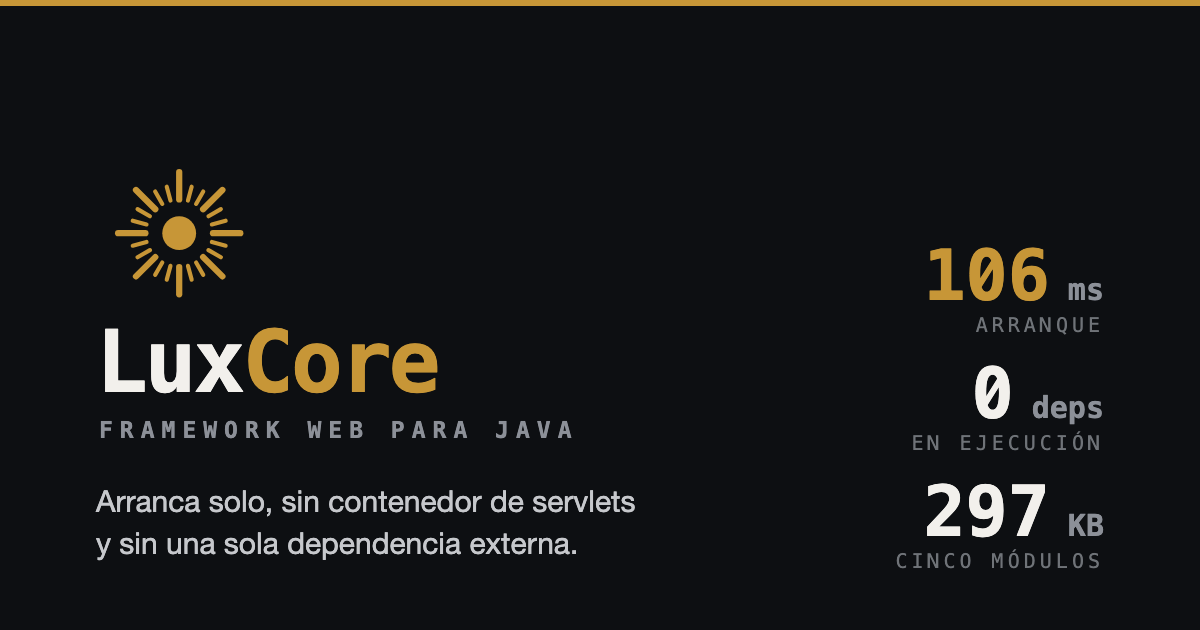
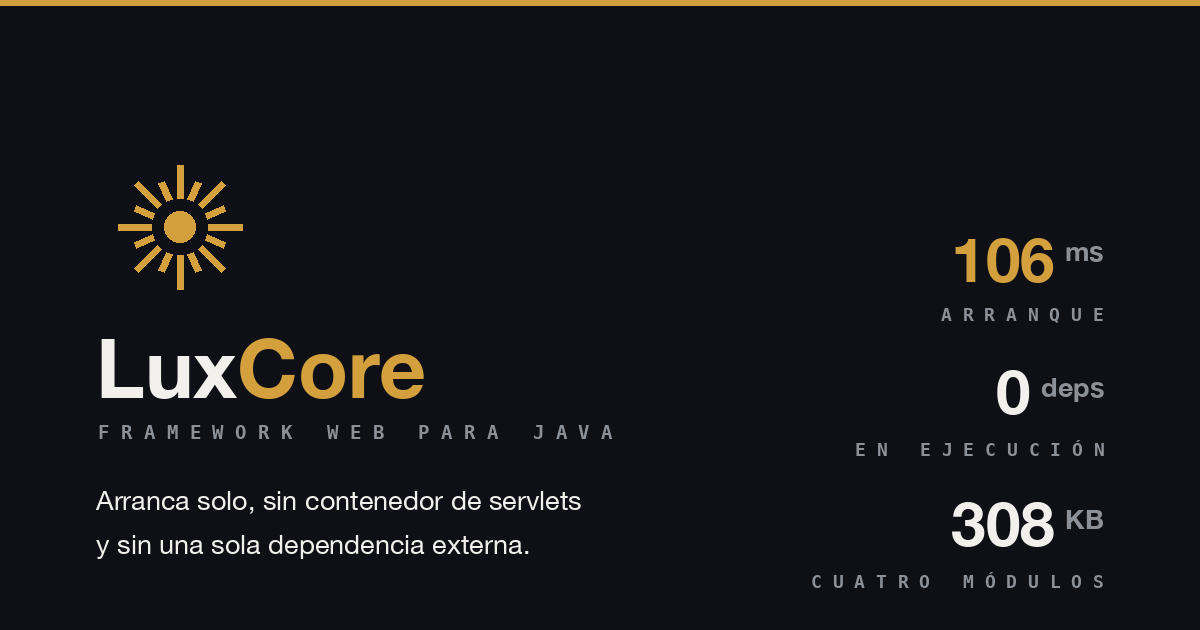
docs: las cifras de tamaño estaban viejas — 297 KB era de antes de esta semana
El núcleo creció con WebSocket, Range, recarga de TLS, caché, eventos, perfiles
y OpenAPI, y nadie volvió a medirlo. Medido ahora, jar a jar:

  lux-http 88 · lux-core 147 · lux-view 38 · lux-data 36  =  308 KB
  con lux-adapter-servlet                                 =  321 KB

Se corrigen los acumulados de la página de descargas, que estaban todos por
debajo, y la portada, que además decía "cinco módulos" donde el núcleo son
cuatro — el quinto es el adaptador de Tomcat, que es la puerta de salida, no
parte del núcleo.

La imagen de marca sale ahora de docs/imagenes/marca.py, y escribe las dos
copias —portada del README y tarjeta social— de una sola pasada: eran el mismo
dibujo mantenido a mano en dos sitios. Y a-plantillas.py copia también
social.png, que era otra copia suelta más.

Sin tocar la auditoría del 1 de agosto: ahí 297 KB era el número correcto ese
día, y un documento fechado no se reescribe.

diff --git a/docs/web/completo.html b/docs/web/completo.html
@@ -739,7 +739,7 @@ td.huella { color: var(--tenue); font-size: .75rem; }
       <p class="subtitular">Framework web para Java</p>
       <p class="promesa">
         Arranca solo, sin contenedor de servlets y sin una sola dependencia externa.
-        297 KB en cinco módulos que se toman por separado.
+        308 KB en cuatro módulos que se toman por separado.
       </p>
 
       <div class="botones">
@@ -748,7 +748,7 @@ td.huella { color: var(--tenue); font-size: .75rem; }
       </div>
 
       <div class="chips">
-        <div class="chip"><b>297</b><span>KB</span><em>Cinco módulos</em></div>
+        <div class="chip"><b>308</b><span>KB</span><em>Cuatro módulos</em></div>
         <div class="chip"><b>0</b><span>deps</span><em>En ejecución</em></div>
         <div class="chip"><b>143</b><span>cls</span><em>De producción</em></div>
         <div class="chip"><b>106</b><span>ms</span><em>Arranque</em></div>
@@ -881,7 +881,7 @@ Lux.app()
             <thead><tr><th>Métrica</th><th class="cifra">JxMVC sobre Tomcat</th><th class="cifra">LuxCore</th><th class="cifra">Diferencia</th></tr></thead>
             <tbody>
               <tr><td>Arranque</td><td class="cifra">698 ms</td><td class="cifra">106 ms</td><td class="cifra">6,6×</td></tr>
-              <tr><td>Desplegado</td><td class="cifra">253 KB + ~15 MB</td><td class="cifra">297 KB</td><td class="cifra">51×</td></tr>
+              <tr><td>Desplegado</td><td class="cifra">253 KB + ~15 MB</td><td class="cifra">308 KB</td><td class="cifra">51×</td></tr>
               <tr><td>Imagen de contenedor</td><td class="cifra">274 MB</td><td class="cifra">110 MB</td><td class="cifra">2,5×</td></tr>
               <tr><td>Dependencias en ejecución</td><td class="cifra">Jakarta EE 10</td><td class="cifra">ninguna</td><td class="cifra">—</td></tr>
               <tr><td>Pruebas</td><td class="cifra">347</td><td class="cifra">1 249</td><td class="cifra">2,7×</td></tr>
@@ -1111,28 +1111,28 @@ Lux.app()
         <div class="ficha">
           <div class="campo">
             <div class="etiqueta">Solo HTTP</div>
-            <div><span class="mono">lux-http</span> · <b>77 KB</b><br>
+            <div><span class="mono">lux-http</span> · <b>88 KB</b><br>
               Un servidor con handlers a mano, sin rutas ni inyección. Para un webhook, un
               healthcheck o un proxy pequeño.</div>
           </div>
           <div class="campo">
             <div class="etiqueta">Una API JSON</div>
-            <div><span class="mono">lux-core</span> · <b>224 KB</b><br>
+            <div><span class="mono">lux-core</span> · <b>235 KB</b><br>
               Rutas, inyección, validación, seguridad y métricas. Lo habitual para un servicio.</div>
           </div>
           <div class="campo">
             <div class="etiqueta">Una web con HTML</div>
-            <div><span class="mono">+ lux-view</span> · <b>262 KB</b><br>
+            <div><span class="mono">+ lux-view</span> · <b>273 KB</b><br>
               Añade plantillas con herencia y escapado por defecto.</div>
           </div>
           <div class="campo">
             <div class="etiqueta">Con base de datos</div>
-            <div><span class="mono">+ lux-data</span> · <b>297 KB</b><br>
+            <div><span class="mono">+ lux-data</span> · <b>308 KB</b><br>
               JDBC, pool, transacciones y repositorios. Más el driver de tu motor.</div>
           </div>
           <div class="campo">
             <div class="etiqueta">Migrando desde Tomcat</div>
-            <div><span class="mono">+ lux-adapter-servlet</span> · <b>310 KB</b><br>
+            <div><span class="mono">+ lux-adapter-servlet</span> · <b>321 KB</b><br>
               Despliega la misma aplicación dentro de Tomcat mientras haces el cambio, y vuelve
               atrás si hace falta.</div>
           </div>
@@ -2110,7 +2110,7 @@ Datos datos = config.bind(Datos.class, <span class="st">"db"</span>);</pre>
             <thead><tr><th>Métrica</th><th class="cifra">JxMVC sobre Tomcat</th><th class="cifra">LuxCore</th></tr></thead>
             <tbody>
               <tr><td>Arranque</td><td class="cifra">698 ms</td><td class="cifra">106 ms</td></tr>
-              <tr><td>Artefacto</td><td class="cifra">253 KB + ~15 MB</td><td class="cifra">297 KB</td></tr>
+              <tr><td>Artefacto</td><td class="cifra">253 KB + ~15 MB</td><td class="cifra">308 KB</td></tr>
               <tr><td>Necesita contenedor</td><td class="cifra">Tomcat 10.1+</td><td class="cifra">no</td></tr>
               <tr><td>Dependencias en runtime</td><td class="cifra">Jakarta EE 10</td><td class="cifra">ninguna</td></tr>
               <tr><td>Líneas de producción</td><td class="cifra">10 379</td><td class="cifra">12 784</td></tr>
@@ -2391,8 +2391,8 @@ document.addEventListener('DOMContentLoaded', function () {
       { t: 'blank' },
       { t: 'out', v: '[INFO] BUILD SUCCESS', cls: 'ok' },
       { t: 'contar', hasta: 1249, dur: 900,
-        plantilla: es ? '        {n} pruebas · 0 fallos · 0 dependencias · 297 KB'
-                      : '        {n} tests · 0 failures · 0 dependencies · 297 KB', cls: 'ok' },
+        plantilla: es ? '        {n} pruebas · 0 fallos · 0 dependencias · 308 KB'
+                      : '        {n} tests · 0 failures · 0 dependencies · 308 KB', cls: 'ok' },
       { t: 'blank' },
 
       { t: 'cm', v: es ? '# 3 — levantar la aplicación de ejemplo' : '# 3 — start the example app', paso: 2 },

diff --git a/docs/web/descargas.html b/docs/web/descargas.html
@@ -14,14 +14,14 @@
 <meta property="og:image" content="https://luxcore.ginit.dev/estaticos/social.png">
 <meta property="og:image:width" content="1200">
 <meta property="og:image:height" content="630">
-<meta property="og:image:alt" content="LuxCore — framework web para Java. 106 ms de arranque, 0 dependencias, 297 KB.">
+<meta property="og:image:alt" content="LuxCore — framework web para Java. 106 ms de arranque, 0 dependencias, 308 KB.">
 <meta property="og:locale" content="es_ES">
 <meta name="twitter:card" content="summary_large_image">
 <meta name="twitter:title" content="LuxCore — Descargas">
 <meta name="twitter:description" content="Los cinco módulos con su tamaño, huella y coordenadas de Maven.">
 <meta name="twitter:image" content="https://luxcore.ginit.dev/estaticos/social.png">
-<link rel="stylesheet" href="./assets/lux.css?v=53b2f94e">
-<script src="./assets/lux.js?v=53b2f94e"></script>
+<link rel="stylesheet" href="./assets/lux.css?v=50dab440">
+<script src="./assets/lux.js?v=50dab440"></script>
 </head>
 <body>
 
@@ -211,28 +211,28 @@
         <div class="ficha">
           <div class="campo">
             <div class="etiqueta">Solo HTTP</div>
-            <div><span class="mono">lux-http</span> · <b>77 KB</b><br>
+            <div><span class="mono">lux-http</span> · <b>88 KB</b><br>
               Un servidor con handlers a mano, sin rutas ni inyección. Para un webhook, un
               healthcheck o un proxy pequeño.</div>
           </div>
           <div class="campo">
             <div class="etiqueta">Una API JSON</div>
-            <div><span class="mono">lux-core</span> · <b>224 KB</b><br>
+            <div><span class="mono">lux-core</span> · <b>235 KB</b><br>
               Rutas, inyección, validación, seguridad y métricas. Lo habitual para un servicio.</div>
           </div>
           <div class="campo">
             <div class="etiqueta">Una web con HTML</div>
-            <div><span class="mono">+ lux-view</span> · <b>262 KB</b><br>
+            <div><span class="mono">+ lux-view</span> · <b>273 KB</b><br>
               Añade plantillas con herencia y escapado por defecto.</div>
           </div>
           <div class="campo">
             <div class="etiqueta">Con base de datos</div>
-            <div><span class="mono">+ lux-data</span> · <b>297 KB</b><br>
+            <div><span class="mono">+ lux-data</span> · <b>308 KB</b><br>
               JDBC, pool, transacciones y repositorios. Más el driver de tu motor.</div>
           </div>
           <div class="campo">
             <div class="etiqueta">Migrando desde Tomcat</div>
-            <div><span class="mono">+ lux-adapter-servlet</span> · <b>310 KB</b><br>
+            <div><span class="mono">+ lux-adapter-servlet</span> · <b>321 KB</b><br>
               Despliega la misma aplicación dentro de Tomcat mientras haces el cambio, y vuelve
               atrás si hace falta.</div>
           </div>

diff --git a/docs/web/index.html b/docs/web/index.html
@@ -14,14 +14,14 @@
 <meta property="og:image" content="https://luxcore.ginit.dev/estaticos/social.png">
 <meta property="og:image:width" content="1200">
 <meta property="og:image:height" content="630">
-<meta property="og:image:alt" content="LuxCore — framework web para Java. 106 ms de arranque, 0 dependencias, 297 KB.">
+<meta property="og:image:alt" content="LuxCore — framework web para Java. 106 ms de arranque, 0 dependencias, 308 KB.">
 <meta property="og:locale" content="es_ES">
 <meta name="twitter:card" content="summary_large_image">
 <meta name="twitter:title" content="LuxCore">
 <meta name="twitter:description" content="Framework web para Java que arranca solo, sin contenedor y sin una sola dependencia externa.">
 <meta name="twitter:image" content="https://luxcore.ginit.dev/estaticos/social.png">
-<link rel="stylesheet" href="./assets/lux.css?v=53b2f94e">
-<script src="./assets/lux.js?v=53b2f94e"></script>
+<link rel="stylesheet" href="./assets/lux.css?v=50dab440">
+<script src="./assets/lux.js?v=50dab440"></script>
 </head>
 <body>
 
@@ -85,7 +85,7 @@
       <p class="subtitular">Framework web para Java</p>
       <p class="promesa">
         Arranca solo, sin contenedor de servlets y sin una sola dependencia externa.
-        297 KB en cinco módulos que se toman por separado.
+        308 KB en cuatro módulos que se toman por separado.
       </p>
 
       <div class="botones">
@@ -94,7 +94,7 @@
       </div>
 
       <div class="chips">
-        <div class="chip"><b>297</b><span>KB</span><em>Cinco módulos</em></div>
+        <div class="chip"><b>308</b><span>KB</span><em>Cuatro módulos</em></div>
         <div class="chip"><b>0</b><span>deps</span><em>En ejecución</em></div>
         <div class="chip"><b>143</b><span>cls</span><em>De producción</em></div>
         <div class="chip"><b>106</b><span>ms</span><em>Arranque</em></div>
@@ -227,7 +227,7 @@ Lux.app()
             <thead><tr><th>Métrica</th><th class="cifra">JxMVC sobre Tomcat</th><th class="cifra">LuxCore</th><th class="cifra">Diferencia</th></tr></thead>
             <tbody>
               <tr><td>Arranque</td><td class="cifra">698 ms</td><td class="cifra">106 ms</td><td class="cifra">6,6×</td></tr>
-              <tr><td>Desplegado</td><td class="cifra">253 KB + ~15 MB</td><td class="cifra">297 KB</td><td class="cifra">51×</td></tr>
+              <tr><td>Desplegado</td><td class="cifra">253 KB + ~15 MB</td><td class="cifra">308 KB</td><td class="cifra">51×</td></tr>
               <tr><td>Imagen de contenedor</td><td class="cifra">274 MB</td><td class="cifra">110 MB</td><td class="cifra">2,5×</td></tr>
               <tr><td>Dependencias en ejecución</td><td class="cifra">Jakarta EE 10</td><td class="cifra">ninguna</td><td class="cifra">—</td></tr>
               <tr><td>Pruebas</td><td class="cifra">347</td><td class="cifra">1 249</td><td class="cifra">2,7×</td></tr>

diff --git a/docs/web/contenido/descargas.html b/docs/web/contenido/descargas.html
@@ -130,28 +130,28 @@
         <div class="ficha">
           <div class="campo">
             <div class="etiqueta">Solo HTTP</div>
-            <div><span class="mono">lux-http</span> · <b>77 KB</b><br>
+            <div><span class="mono">lux-http</span> · <b>88 KB</b><br>
               Un servidor con handlers a mano, sin rutas ni inyección. Para un webhook, un
               healthcheck o un proxy pequeño.</div>
           </div>
           <div class="campo">
             <div class="etiqueta">Una API JSON</div>
-            <div><span class="mono">lux-core</span> · <b>224 KB</b><br>
+            <div><span class="mono">lux-core</span> · <b>235 KB</b><br>
               Rutas, inyección, validación, seguridad y métricas. Lo habitual para un servicio.</div>
           </div>
           <div class="campo">
             <div class="etiqueta">Una web con HTML</div>
-            <div><span class="mono">+ lux-view</span> · <b>262 KB</b><br>
+            <div><span class="mono">+ lux-view</span> · <b>273 KB</b><br>
               Añade plantillas con herencia y escapado por defecto.</div>
           </div>
           <div class="campo">
             <div class="etiqueta">Con base de datos</div>
-            <div><span class="mono">+ lux-data</span> · <b>297 KB</b><br>
+            <div><span class="mono">+ lux-data</span> · <b>308 KB</b><br>
               JDBC, pool, transacciones y repositorios. Más el driver de tu motor.</div>
           </div>
           <div class="campo">
             <div class="etiqueta">Migrando desde Tomcat</div>
-            <div><span class="mono">+ lux-adapter-servlet</span> · <b>310 KB</b><br>
+            <div><span class="mono">+ lux-adapter-servlet</span> · <b>321 KB</b><br>
               Despliega la misma aplicación dentro de Tomcat mientras haces el cambio, y vuelve
               atrás si hace falta.</div>
           </div>

diff --git a/java/lux-web/src/main/resources/plantillas/descargas.html b/java/lux-web/src/main/resources/plantillas/descargas.html
@@ -134,28 +134,28 @@
         <div class="ficha">
           <div class="campo">
             <div class="etiqueta">Solo HTTP</div>
-            <div><span class="mono">lux-http</span> · <b>77 KB</b><br>
+            <div><span class="mono">lux-http</span> · <b>88 KB</b><br>
               Un servidor con handlers a mano, sin rutas ni inyección. Para un webhook, un
               healthcheck o un proxy pequeño.</div>
           </div>
           <div class="campo">
             <div class="etiqueta">Una API JSON</div>
-            <div><span class="mono">lux-core</span> · <b>224 KB</b><br>
+            <div><span class="mono">lux-core</span> · <b>235 KB</b><br>
               Rutas, inyección, validación, seguridad y métricas. Lo habitual para un servicio.</div>
           </div>
           <div class="campo">
             <div class="etiqueta">Una web con HTML</div>
-            <div><span class="mono">+ lux-view</span> · <b>262 KB</b><br>
+            <div><span class="mono">+ lux-view</span> · <b>273 KB</b><br>
               Añade plantillas con herencia y escapado por defecto.</div>
           </div>
           <div class="campo">
             <div class="etiqueta">Con base de datos</div>
-            <div><span class="mono">+ lux-data</span> · <b>297 KB</b><br>
+            <div><span class="mono">+ lux-data</span> · <b>308 KB</b><br>
               JDBC, pool, transacciones y repositorios. Más el driver de tu motor.</div>
           </div>
           <div class="campo">
             <div class="etiqueta">Migrando desde Tomcat</div>
-            <div><span class="mono">+ lux-adapter-servlet</span> · <b>310 KB</b><br>
+            <div><span class="mono">+ lux-adapter-servlet</span> · <b>321 KB</b><br>
               Despliega la misma aplicación dentro de Tomcat mientras haces el cambio, y vuelve
               atrás si hace falta.</div>
           </div>

diff --git a/docs/web/referencia.html b/docs/web/referencia.html
@@ -14,14 +14,14 @@
 <meta property="og:image" content="https://luxcore.ginit.dev/estaticos/social.png">
 <meta property="og:image:width" content="1200">
 <meta property="og:image:height" content="630">
-<meta property="og:image:alt" content="LuxCore — framework web para Java. 106 ms de arranque, 0 dependencias, 297 KB.">
+<meta property="og:image:alt" content="LuxCore — framework web para Java. 106 ms de arranque, 0 dependencias, 308 KB.">
 <meta property="og:locale" content="es_ES">
 <meta name="twitter:card" content="summary_large_image">
 <meta name="twitter:title" content="LuxCore — Referencia">
 <meta name="twitter:description" content="Tamaños, motores de base de datos, sistemas y comparación.">
 <meta name="twitter:image" content="https://luxcore.ginit.dev/estaticos/social.png">
-<link rel="stylesheet" href="./assets/lux.css?v=53b2f94e">
-<script src="./assets/lux.js?v=53b2f94e"></script>
+<link rel="stylesheet" href="./assets/lux.css?v=50dab440">
+<script src="./assets/lux.js?v=50dab440"></script>
 </head>
 <body>
 
@@ -174,7 +174,7 @@
             <thead><tr><th>Métrica</th><th class="cifra">JxMVC sobre Tomcat</th><th class="cifra">LuxCore</th></tr></thead>
             <tbody>
               <tr><td>Arranque</td><td class="cifra">698 ms</td><td class="cifra">106 ms</td></tr>
-              <tr><td>Artefacto</td><td class="cifra">253 KB + ~15 MB</td><td class="cifra">297 KB</td></tr>
+              <tr><td>Artefacto</td><td class="cifra">253 KB + ~15 MB</td><td class="cifra">308 KB</td></tr>
               <tr><td>Necesita contenedor</td><td class="cifra">Tomcat 10.1+</td><td class="cifra">no</td></tr>
               <tr><td>Dependencias en runtime</td><td class="cifra">Jakarta EE 10</td><td class="cifra">ninguna</td></tr>
               <tr><td>Líneas de producción</td><td class="cifra">10 379</td><td class="cifra">12 784</td></tr>

diff --git a/docs/web/contenido/index.html b/docs/web/contenido/index.html
@@ -4,7 +4,7 @@
       <p class="subtitular">Framework web para Java</p>
       <p class="promesa">
         Arranca solo, sin contenedor de servlets y sin una sola dependencia externa.
-        297 KB en cinco módulos que se toman por separado.
+        308 KB en cuatro módulos que se toman por separado.
       </p>
 
       <div class="botones">
@@ -13,7 +13,7 @@
       </div>
 
       <div class="chips">
-        <div class="chip"><b>297</b><span>KB</span><em>Cinco módulos</em></div>
+        <div class="chip"><b>308</b><span>KB</span><em>Cuatro módulos</em></div>
         <div class="chip"><b>0</b><span>deps</span><em>En ejecución</em></div>
         <div class="chip"><b>143</b><span>cls</span><em>De producción</em></div>
         <div class="chip"><b>106</b><span>ms</span><em>Arranque</em></div>
@@ -146,7 +146,7 @@ Lux.app()
             <thead><tr><th>Métrica</th><th class="cifra">JxMVC sobre Tomcat</th><th class="cifra">LuxCore</th><th class="cifra">Diferencia</th></tr></thead>
             <tbody>
               <tr><td>Arranque</td><td class="cifra">698 ms</td><td class="cifra">106 ms</td><td class="cifra">6,6×</td></tr>
-              <tr><td>Desplegado</td><td class="cifra">253 KB + ~15 MB</td><td class="cifra">297 KB</td><td class="cifra">51×</td></tr>
+              <tr><td>Desplegado</td><td class="cifra">253 KB + ~15 MB</td><td class="cifra">308 KB</td><td class="cifra">51×</td></tr>
               <tr><td>Imagen de contenedor</td><td class="cifra">274 MB</td><td class="cifra">110 MB</td><td class="cifra">2,5×</td></tr>
               <tr><td>Dependencias en ejecución</td><td class="cifra">Jakarta EE 10</td><td class="cifra">ninguna</td><td class="cifra">—</td></tr>
               <tr><td>Pruebas</td><td class="cifra">347</td><td class="cifra">1 249</td><td class="cifra">2,7×</td></tr>

diff --git a/java/lux-web/src/main/resources/plantillas/inicio.html b/java/lux-web/src/main/resources/plantillas/inicio.html
@@ -7,7 +7,7 @@
       <p class="subtitular">Framework web para Java</p>
       <p class="promesa">
         Arranca solo, sin contenedor de servlets y sin una sola dependencia externa.
-        297 KB en cinco módulos que se toman por separado.
+        308 KB en cuatro módulos que se toman por separado.
       </p>
 
       <div class="botones">
@@ -16,7 +16,7 @@
       </div>
 
       <div class="chips">
-        <div class="chip"><b>297</b><span>KB</span><em>Cinco módulos</em></div>
+        <div class="chip"><b>308</b><span>KB</span><em>Cuatro módulos</em></div>
         <div class="chip"><b>0</b><span>deps</span><em>En ejecución</em></div>
         <div class="chip"><b>143</b><span>cls</span><em>De producción</em></div>
         <div class="chip"><b>106</b><span>ms</span><em>Arranque</em></div>
@@ -149,7 +149,7 @@ Lux.app()
             <thead><tr><th>Métrica</th><th class="cifra">JxMVC sobre Tomcat</th><th class="cifra">LuxCore</th><th class="cifra">Diferencia</th></tr></thead>
             <tbody>
               <tr><td>Arranque</td><td class="cifra">698 ms</td><td class="cifra">106 ms</td><td class="cifra">6,6×</td></tr>
-              <tr><td>Desplegado</td><td class="cifra">253 KB + ~15 MB</td><td class="cifra">297 KB</td><td class="cifra">51×</td></tr>
+              <tr><td>Desplegado</td><td class="cifra">253 KB + ~15 MB</td><td class="cifra">308 KB</td><td class="cifra">51×</td></tr>
               <tr><td>Imagen de contenedor</td><td class="cifra">274 MB</td><td class="cifra">110 MB</td><td class="cifra">2,5×</td></tr>
               <tr><td>Dependencias en ejecución</td><td class="cifra">Jakarta EE 10</td><td class="cifra">ninguna</td><td class="cifra">—</td></tr>
               <tr><td>Pruebas</td><td class="cifra">347</td><td class="cifra">1 249</td><td class="cifra">2,7×</td></tr>

diff --git a/docs/web/empezar.html b/docs/web/empezar.html
@@ -14,15 +14,15 @@
 <meta property="og:image" content="https://luxcore.ginit.dev/estaticos/social.png">
 <meta property="og:image:width" content="1200">
 <meta property="og:image:height" content="630">
-<meta property="og:image:alt" content="LuxCore — framework web para Java. 106 ms de arranque, 0 dependencias, 297 KB.">
+<meta property="og:image:alt" content="LuxCore — framework web para Java. 106 ms de arranque, 0 dependencias, 308 KB.">
 <meta property="og:locale" content="es_ES">
 <meta name="twitter:card" content="summary_large_image">
 <meta name="twitter:title" content="LuxCore — Empezar">
 <meta name="twitter:description" content="De cero a un servidor respondiendo, en cuatro órdenes.">
 <meta name="twitter:image" content="https://luxcore.ginit.dev/estaticos/social.png">
-<link rel="stylesheet" href="./assets/lux.css?v=53b2f94e">
-<script src="./assets/lux.js?v=53b2f94e"></script>
-<script src="./assets/terminal.js?v=53b2f94e" defer></script>
+<link rel="stylesheet" href="./assets/lux.css?v=50dab440">
+<script src="./assets/lux.js?v=50dab440"></script>
+<script src="./assets/terminal.js?v=50dab440" defer></script>
 </head>
 <body>
 

diff --git a/docs/web/guia.html b/docs/web/guia.html
@@ -14,14 +14,14 @@
 <meta property="og:image" content="https://luxcore.ginit.dev/estaticos/social.png">
 <meta property="og:image:width" content="1200">
 <meta property="og:image:height" content="630">
-<meta property="og:image:alt" content="LuxCore — framework web para Java. 106 ms de arranque, 0 dependencias, 297 KB.">
+<meta property="og:image:alt" content="LuxCore — framework web para Java. 106 ms de arranque, 0 dependencias, 308 KB.">
 <meta property="og:locale" content="es_ES">
 <meta name="twitter:card" content="summary_large_image">
 <meta name="twitter:title" content="LuxCore — Guía">
 <meta name="twitter:description" content="Rutas, parámetros, respuestas, inyección, validación y errores.">
 <meta name="twitter:image" content="https://luxcore.ginit.dev/estaticos/social.png">
-<link rel="stylesheet" href="./assets/lux.css?v=53b2f94e">
-<script src="./assets/lux.js?v=53b2f94e"></script>
+<link rel="stylesheet" href="./assets/lux.css?v=50dab440">
+<script src="./assets/lux.js?v=50dab440"></script>
 </head>
 <body>
 

diff --git a/docs/web/modulos.html b/docs/web/modulos.html
@@ -14,14 +14,14 @@
 <meta property="og:image" content="https://luxcore.ginit.dev/estaticos/social.png">
 <meta property="og:image:width" content="1200">
 <meta property="og:image:height" content="630">
-<meta property="og:image:alt" content="LuxCore — framework web para Java. 106 ms de arranque, 0 dependencias, 297 KB.">
+<meta property="og:image:alt" content="LuxCore — framework web para Java. 106 ms de arranque, 0 dependencias, 308 KB.">
 <meta property="og:locale" content="es_ES">
 <meta name="twitter:card" content="summary_large_image">
 <meta name="twitter:title" content="LuxCore — Módulos">
 <meta name="twitter:description" content="Qué trae cada uno y cómo se usan por separado.">
 <meta name="twitter:image" content="https://luxcore.ginit.dev/estaticos/social.png">
-<link rel="stylesheet" href="./assets/lux.css?v=53b2f94e">
-<script src="./assets/lux.js?v=53b2f94e"></script>
+<link rel="stylesheet" href="./assets/lux.css?v=50dab440">
+<script src="./assets/lux.js?v=50dab440"></script>
 </head>
 <body>
 

diff --git a/docs/web/contenido/referencia.html b/docs/web/contenido/referencia.html
@@ -93,7 +93,7 @@
             <thead><tr><th>Métrica</th><th class="cifra">JxMVC sobre Tomcat</th><th class="cifra">LuxCore</th></tr></thead>
             <tbody>
               <tr><td>Arranque</td><td class="cifra">698 ms</td><td class="cifra">106 ms</td></tr>
-              <tr><td>Artefacto</td><td class="cifra">253 KB + ~15 MB</td><td class="cifra">297 KB</td></tr>
+              <tr><td>Artefacto</td><td class="cifra">253 KB + ~15 MB</td><td class="cifra">308 KB</td></tr>
               <tr><td>Necesita contenedor</td><td class="cifra">Tomcat 10.1+</td><td class="cifra">no</td></tr>
               <tr><td>Dependencias en runtime</td><td class="cifra">Jakarta EE 10</td><td class="cifra">ninguna</td></tr>
               <tr><td>Líneas de producción</td><td class="cifra">10 379</td><td class="cifra">12 784</td></tr>
